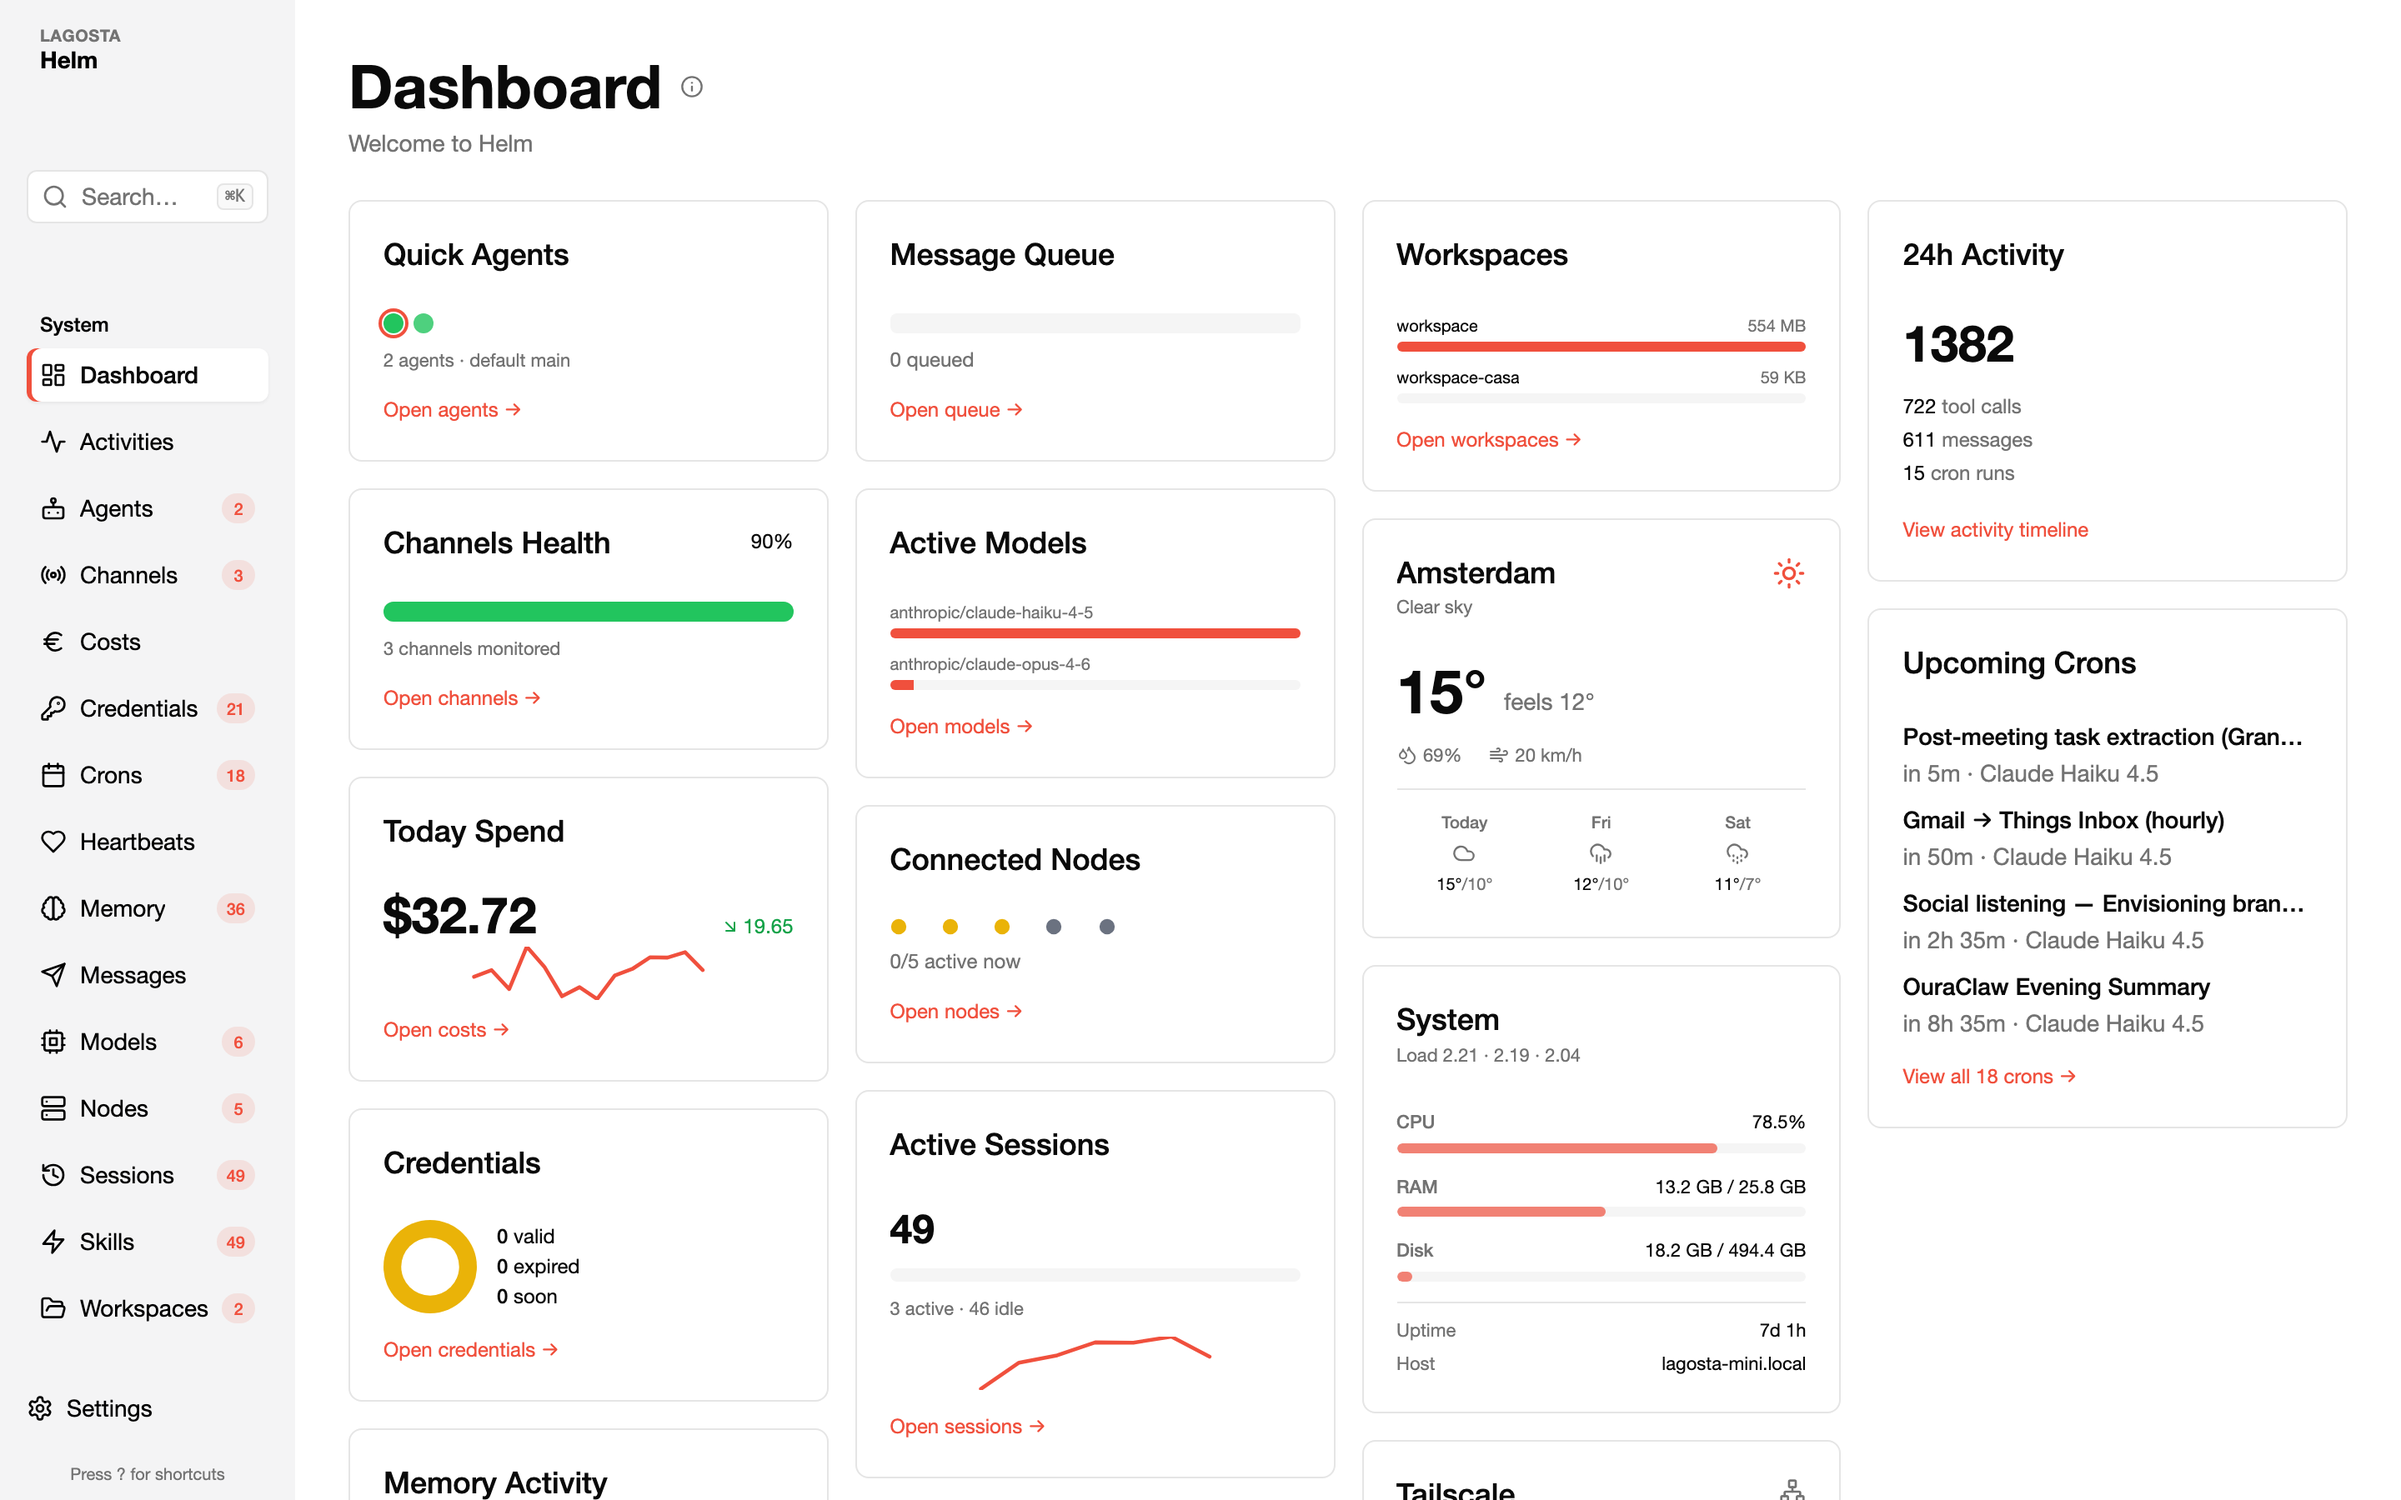
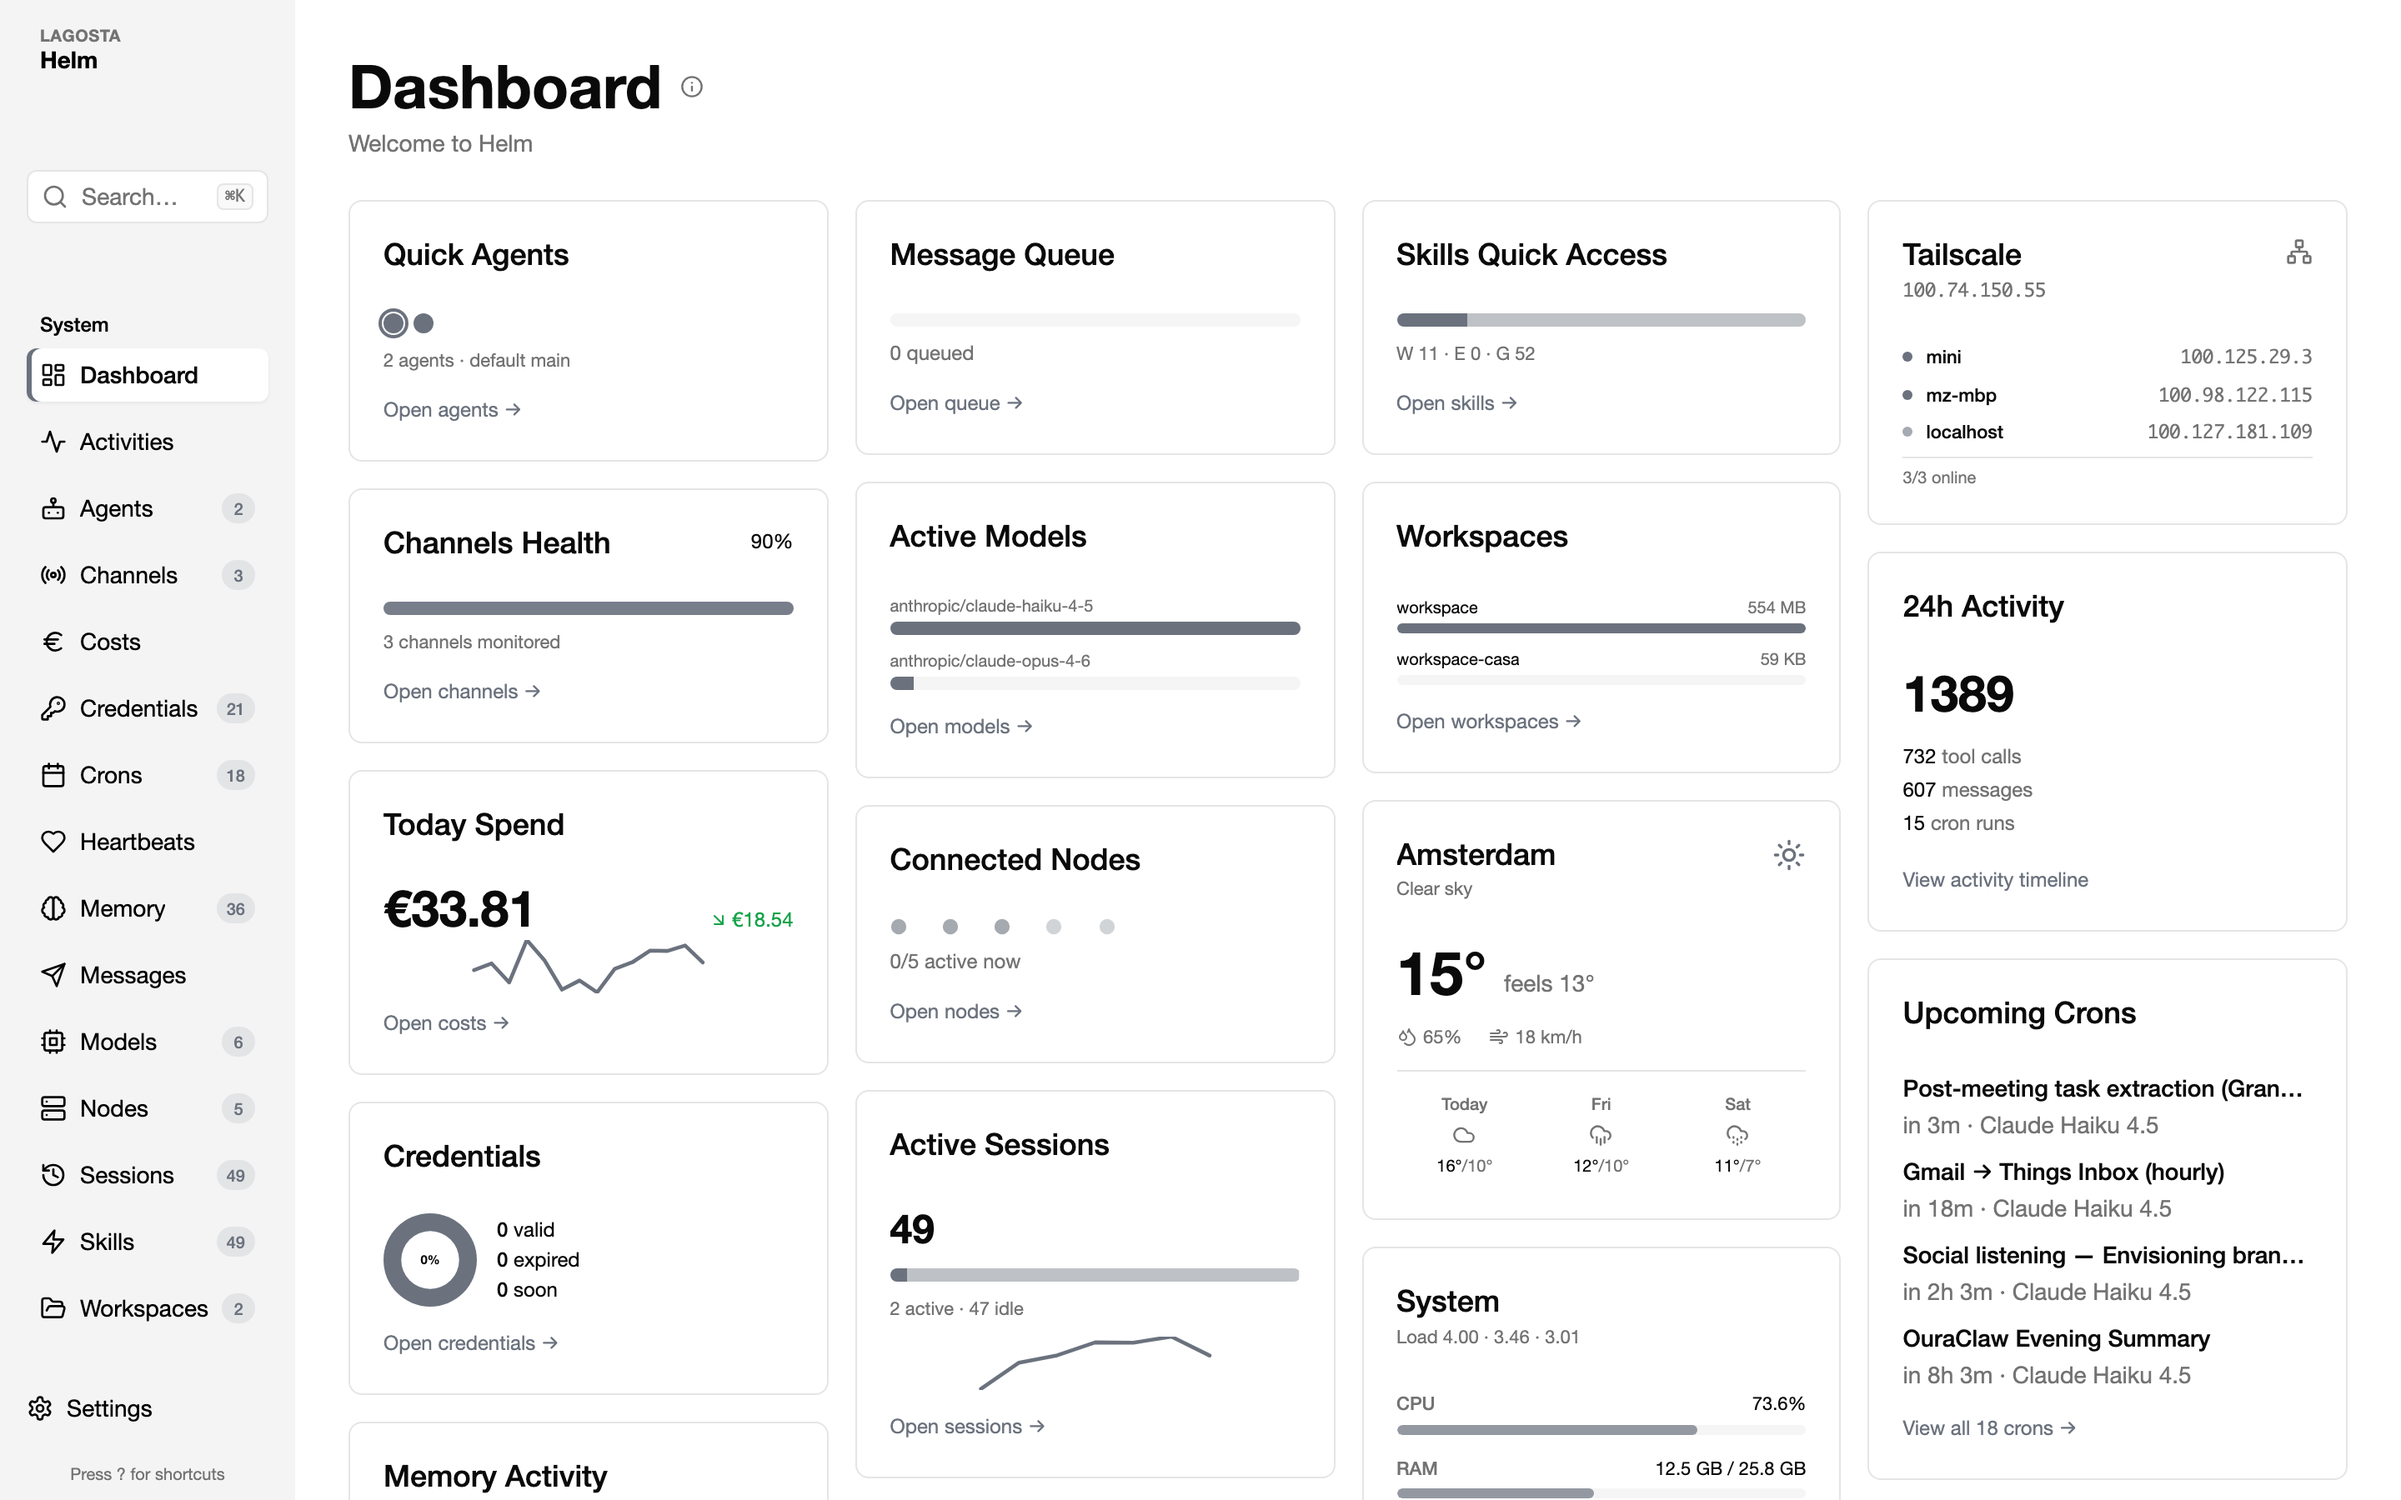
Standardize all widget colors to use accent
- Today spend: use set currency (EUR/USD)
- All bars: standardized to h-2, use accent color
- Status indicators: use accent with opacity (1/0.6/0.3) instead of hardcoded green/yellow/gray
- Removed unused healthColor function
- Consistent visual language across all dashboard widgets

diff --git a/pages/index.tsx b/pages/index.tsx
@@ -302,12 +302,8 @@ function TailscaleCard() {
                 <span
                   className="h-1.5 w-1.5 rounded-full shrink-0"
                   style={{
-                    backgroundColor: peer.active
-                      ? "#22c55e"   // green  — active (recent traffic)
-                      : peer.online
-                        ? "#f59e0b" // amber  — online, idle
-                        : "#6b7280", // gray  — offline
-                    opacity: peer.online ? 1 : 0.4,
+                    backgroundColor: "var(--theme-accent)",
+                    opacity: peer.active ? 1 : peer.online ? 0.6 : 0.3,
                   }}
                 />
                 <span className="font-medium truncate flex-1">{peer.name}</span>
@@ -481,13 +477,6 @@ function MiniSparkline({ values }: { values: number[] }) {
   );
 }
 
-function healthColor(pct: number) {
-  if (pct >= 80) return "#22c55e";
-  if (pct >= 60) return "#84cc16";
-  if (pct >= 40) return "#f59e0b";
-  return "#ef4444";
-}
-
 function QuickAgentsCard() {
   const [agents, setAgents] = useState<OcAgent[]>([]);
   const [summary, setSummary] = useState<AgentsSummary | null>(null);
@@ -528,7 +517,7 @@ function QuickAgentsCard() {
                 "h-3 w-3 rounded-full border",
                 agent.id === defaultId ? "ring-2 ring-offset-1 ring-[var(--theme-accent)]" : "opacity-80"
               )}
-              style={{ backgroundColor: agent.sessionCount > 0 ? "#22c55e" : "#6b7280", borderColor: "transparent" }}
+              style={{ backgroundColor: "var(--theme-accent)", opacity: agent.sessionCount > 0 ? 1 : 0.4, borderColor: "transparent" }}
             />
           ))}
           {agents.length === 0 && <div className="h-3 w-20 rounded bg-muted animate-pulse" />}
@@ -565,13 +554,13 @@ function ChannelsHealthCard() {
         </div>
       </CardHeader>
       <CardContent className="space-y-2">
-        <div className="h-3 rounded-md overflow-hidden flex bg-muted">
+        <div className="h-2 rounded-md overflow-hidden flex bg-muted">
           {(data?.channels ?? []).map((channel) => (
             <div
               key={channel.id}
               title={`${channel.name}: ${channel.healthPct}%`}
               className="h-full"
-              style={{ width: `${100 / Math.max((data?.channels.length ?? 1), 1)}%`, backgroundColor: healthColor(channel.healthPct) }}
+              style={{ width: `${100 / Math.max((data?.channels.length ?? 1), 1)}%`, backgroundColor: "var(--theme-accent)", opacity: Math.max(0.4, channel.healthPct / 100) }}
             />
           ))}
           {!data && <div className="h-full w-full animate-pulse bg-muted" />}
@@ -589,6 +578,7 @@ function ChannelsHealthCard() {
 
 function TodaySpendCard() {
   const [data, setData] = useState<CostHistoryData | null>(null);
+  const { settings } = useSettings();
 
   useAutoRefresh(() => {
     fetch("/api/cost-history")
@@ -604,6 +594,7 @@ function TodaySpendCard() {
   const today = data?.summary.today ?? 0;
   const yesterday = daily.length > 1 ? daily[daily.length - 2].cost : 0;
   const delta = today - yesterday;
+  const symbol = settings.currency === "EUR" ? "€" : "$";
 
   return (
     <Card>
@@ -612,10 +603,10 @@ function TodaySpendCard() {
       </CardHeader>
       <CardContent className="space-y-1">
         <div className="flex items-end justify-between">
-          <p className="text-3xl leading-none font-bold tabular-nums">${today.toFixed(2)}</p>
+          <p className="text-3xl leading-none font-bold tabular-nums">{symbol}{today.toFixed(2)}</p>
           <span className={cn("text-xs inline-flex items-center gap-0.5 tabular-nums", delta >= 0 ? "text-red-500" : "text-green-600")}>
             {delta >= 0 ? <ArrowUpRight className="h-3 w-3" /> : <ArrowDownRight className="h-3 w-3" />}
-            {Math.abs(delta).toFixed(2)}
+            {symbol}{Math.abs(delta).toFixed(2)}
           </span>
         </div>
         <MiniSparkline values={points} />
@@ -656,10 +647,12 @@ function CredentialsStatusCard() {
           <div
             className="h-14 w-14 rounded-full"
             style={{
-              background: `conic-gradient(#22c55e 0 ${validPct}%, #ef4444 ${validPct}% ${validPct + expiredPct}%, #eab308 ${validPct + expiredPct}% 100%)`,
+              background: `conic-gradient(var(--theme-accent) 0 ${validPct}%, var(--theme-accent) ${validPct}% ${validPct + expiredPct}%, var(--theme-accent) ${validPct + expiredPct}% 100%)`,
             }}
           >
-            <div className="h-full w-full scale-[0.62] rounded-full bg-card" />
+            <div className="h-full w-full scale-[0.62] rounded-full bg-card flex items-center justify-center">
+              <span className="text-xs font-bold tabular-nums">{validPct}%</span>
+            </div>
           </div>
           <div className="text-xs space-y-0.5">
             <p className="tabular-nums"><span className="text-foreground font-medium">{valid}</span> valid</p>
@@ -695,16 +688,16 @@ function MemoryActivityCard() {
         <CardTitle className="text-sm font-medium">Memory Activity</CardTitle>
       </CardHeader>
       <CardContent className="space-y-2">
-        <div className="h-10 flex items-end gap-1">
+        <div className="h-2 flex items-end gap-0.5 rounded overflow-hidden bg-muted">
           {(data?.timeline ?? []).map((point) => (
             <div
               key={point.day}
               title={`${point.day}: ${point.edits}`}
-              className="flex-1 rounded-sm"
-              style={{ height: `${Math.max(10, (point.edits / maxEdits) * 100)}%`, backgroundColor: "var(--theme-accent)", opacity: 0.75 }}
+              className="flex-1 h-full"
+              style={{ backgroundColor: "var(--theme-accent)", opacity: Math.max(0.3, point.edits / maxEdits) }}
             />
           ))}
-          {!data && <div className="h-full w-full rounded bg-muted animate-pulse" />}
+          {!data && <div className="h-full w-full animate-pulse bg-muted" />}
         </div>
         <div className="flex flex-wrap gap-1">
           {(data?.recentTopics ?? []).slice(0, 5).map((topic) => (
@@ -748,8 +741,8 @@ function MessageQueueCard() {
         </div>
       </CardHeader>
       <CardContent className="space-y-2">
-        <div className="h-3 rounded bg-muted overflow-hidden">
-          <div className="h-full transition-all" style={{ width: `${pct}%`, backgroundColor: queued > 15 ? "#f59e0b" : "var(--theme-accent)" }} />
+        <div className="h-2 rounded bg-muted overflow-hidden">
+          <div className="h-full transition-all" style={{ width: `${pct}%`, backgroundColor: "var(--theme-accent)", opacity: queued > 15 ? 0.6 : 1 }} />
         </div>
         <p className="text-xs text-muted-foreground tabular-nums">{queued} queued</p>
         <Link href="/messages" className="text-xs hover:underline" style={{ color: "var(--theme-accent)" }}>
@@ -787,7 +780,7 @@ function ActiveModelsCard() {
         {top.map((model) => (
           <div key={model.id} className="space-y-0.5">
             <div className="text-[10px] text-muted-foreground truncate">{model.id}</div>
-            <div className="h-1.5 rounded bg-muted overflow-hidden">
+            <div className="h-2 rounded bg-muted overflow-hidden">
               <div className="h-full" style={{ width: `${(model.count / max) * 100}%`, backgroundColor: "var(--theme-accent)" }} />
             </div>
           </div>
@@ -833,7 +826,7 @@ function ConnectedNodesCard() {
             <Circle
               key={i}
               className="h-2.5 w-2.5 fill-current"
-              style={{ color: status === "active" ? "#22c55e" : status === "idle" ? "#eab308" : "#6b7280" }}
+              style={{ color: "var(--theme-accent)", opacity: status === "active" ? 1 : status === "idle" ? 0.6 : 0.3 }}
             />
           ))}
           {statuses.length === 0 && <div className="col-span-8 h-4 rounded bg-muted animate-pulse" />}
@@ -878,8 +871,8 @@ function ActiveSessionsCard() {
       <CardContent className="space-y-2">
         <p className="text-2xl font-bold tabular-nums">{sessions.length}</p>
         <div className="h-2 rounded bg-muted overflow-hidden flex">
-          <div className="h-full bg-emerald-500" style={{ width: `${(active / total) * 100}%` }} />
-          <div className="h-full bg-zinc-500" style={{ width: `${(idle / total) * 100}%` }} />
+          <div className="h-full" style={{ width: `${(active / total) * 100}%`, backgroundColor: "var(--theme-accent)" }} />
+          <div className="h-full" style={{ width: `${(idle / total) * 100}%`, backgroundColor: "var(--theme-accent)", opacity: 0.4 }} />
         </div>
         <p className="text-[11px] text-muted-foreground tabular-nums">{active} active · {idle} idle</p>
         <MiniSparkline values={points} />
@@ -916,10 +909,10 @@ function SkillsQuickAccessCard() {
         <CardTitle className="text-sm font-medium">Skills Quick Access</CardTitle>
       </CardHeader>
       <CardContent className="space-y-2">
-        <div className="h-3 rounded bg-muted overflow-hidden flex">
-          <div className="h-full bg-sky-500" style={{ width: `${(counts.workspace / total) * 100}%` }} />
-          <div className="h-full bg-amber-500" style={{ width: `${(counts.extension / total) * 100}%` }} />
-          <div className="h-full bg-zinc-500" style={{ width: `${(counts.global / total) * 100}%` }} />
+        <div className="h-2 rounded bg-muted overflow-hidden flex">
+          <div className="h-full" style={{ width: `${(counts.workspace / total) * 100}%`, backgroundColor: "var(--theme-accent)" }} />
+          <div className="h-full" style={{ width: `${(counts.extension / total) * 100}%`, backgroundColor: "var(--theme-accent)", opacity: 0.7 }} />
+          <div className="h-full" style={{ width: `${(counts.global / total) * 100}%`, backgroundColor: "var(--theme-accent)", opacity: 0.4 }} />
         </div>
         <p className="text-[11px] text-muted-foreground tabular-nums">
           W {counts.workspace} · E {counts.extension} · G {counts.global}
